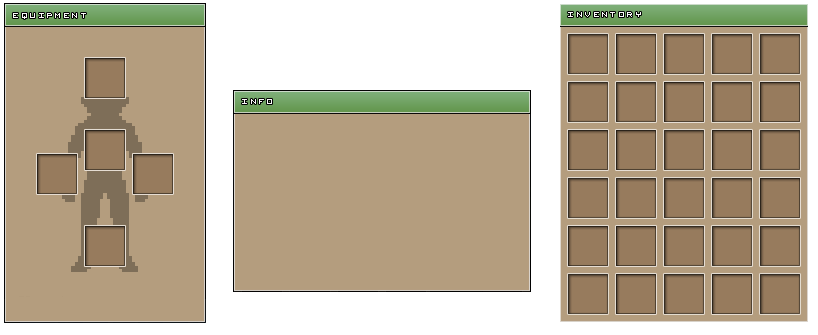
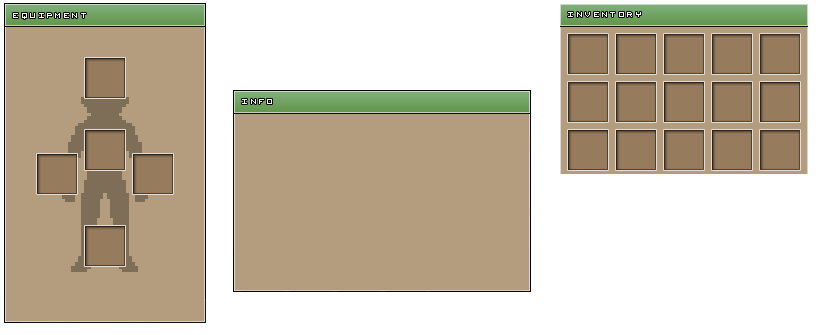
[~] All files : Add button on the inventory

Changed region(s): [[0.6724, 0.5075, 1.0, 0.9851]]

diff --git a/src/initia/initia_inventory.c b/src/initia/initia_inventory.c
@@ -13,4 +13,40 @@ void initia_inventory(global *gb)
         gb->inv.inv[i] = 0;
 }
 
+void initia_button_inventory(global *gb)
+{
+    gb->button[BUTTON_INV1] = *initia_button(&gb->button[BUTTON_INV1],
+        (sfVector2f) {40, 40}, (sfVector2f) {1098, 354});
+    gb->button[BUTTON_INV2] = *initia_button(&gb->button[BUTTON_INV2],
+        (sfVector2f) {40, 40}, (sfVector2f) {1146, 354});
+    gb->button[BUTTON_INV3] = *initia_button(&gb->button[BUTTON_INV3],
+        (sfVector2f) {40, 40}, (sfVector2f) {1194, 354});
+    gb->button[BUTTON_INV4] = *initia_button(&gb->button[BUTTON_INV4],
+        (sfVector2f) {40, 40}, (sfVector2f) {1242, 354});
+    gb->button[BUTTON_INV5] = *initia_button(&gb->button[BUTTON_INV5],
+        (sfVector2f) {40, 40}, (sfVector2f) {1290, 354});
+
+    gb->button[BUTTON_INV6] = *initia_button(&gb->button[BUTTON_INV6],
+        (sfVector2f) {40, 40}, (sfVector2f) {1098, 402});
+    gb->button[BUTTON_INV7] = *initia_button(&gb->button[BUTTON_INV7],
+        (sfVector2f) {40, 40}, (sfVector2f) {1146, 402});
+    gb->button[BUTTON_INV8] = *initia_button(&gb->button[BUTTON_INV8],
+        (sfVector2f) {40, 40}, (sfVector2f) {1194, 402});
+    gb->button[BUTTON_INV9] = *initia_button(&gb->button[BUTTON_INV9],
+        (sfVector2f) {40, 40}, (sfVector2f) {1242, 402});
+    gb->button[BUTTON_INV10] = *initia_button(&gb->button[BUTTON_INV10],
+        (sfVector2f) {40, 40}, (sfVector2f) {1290, 402});
+
+    gb->button[BUTTON_INV11] = *initia_button(&gb->button[BUTTON_INV11],
+        (sfVector2f) {40, 40}, (sfVector2f) {1098, 450});
+    gb->button[BUTTON_INV12] = *initia_button(&gb->button[BUTTON_INV12],
+        (sfVector2f) {40, 40}, (sfVector2f) {1146, 450});
+    gb->button[BUTTON_INV13] = *initia_button(&gb->button[BUTTON_INV13],
+        (sfVector2f) {40, 40}, (sfVector2f) {1194, 450});
+    gb->button[BUTTON_INV14] = *initia_button(&gb->button[BUTTON_INV14],
+        (sfVector2f) {40, 40}, (sfVector2f) {1242, 450});
+    gb->button[BUTTON_INV15] = *initia_button(&gb->button[BUTTON_INV15],
+        (sfVector2f) {40, 40}, (sfVector2f) {1290, 450});
+}
+
 

diff --git a/include/macro.h b/include/macro.h
@@ -29,6 +29,21 @@
 #define BUTTON_BUY10 17
 #define BUTTON_BUY11 18
 #define BUTTON_BUY12 19
+#define BUTTON_INV1 20
+#define BUTTON_INV2 21
+#define BUTTON_INV3 22
+#define BUTTON_INV4 23
+#define BUTTON_INV5 24
+#define BUTTON_INV6 25
+#define BUTTON_INV7 26
+#define BUTTON_INV8 27
+#define BUTTON_INV9 28
+#define BUTTON_INV10 29
+#define BUTTON_INV11 30
+#define BUTTON_INV12 31
+#define BUTTON_INV13 32
+#define BUTTON_INV14 33
+#define BUTTON_INV15 34
 
 ///TEXT///
 #define TXT_NEW_GAME 0

diff --git a/src/rpg.c b/src/rpg.c
@@ -11,16 +11,17 @@
 
 void initia_screen(global *gb)
 {
-    gb->selecscreen.sc = 0;
+    gb->selecscreen.sc = 8;
 }
 
 void call_initia_function(global *gb)
 {
     initia_screen(gb);
     initia_stats(gb);
-    initia_inventory(gb);
     initia_window(gb);
     initia_time(gb);
+    initia_inventory(gb);
+    initia_button_inventory(gb);
     initia_sprite_menu(gb);
     initia_button_menu(gb);
     initia_sound_menu(gb);

diff --git a/src/player/inventory.c b/src/player/inventory.c
@@ -30,6 +30,10 @@ void display_inventory(global *gb)
             pos.x += 47;
         temp++;
     }
+    for (int i = BUTTON_INV1; i <= BUTTON_INV15; i++) {
+        sfRenderWindow_drawRectangleShape(gb->disev.window,
+            gb->button[i].rect, NULL);
+    }
 }
 
 void open_inventory(global *gb)

diff --git a/include/function.h b/include/function.h
@@ -214,6 +214,7 @@ void anim_attack(global *gb, int sprite);
 ///inventory.c///
 void open_inventory(global *gb);
 void display_inventory (global *gb);
+void initia_button_inventory(global *gb);
 
 ///check_2_in.c///
 int collision_between__sprite(sfSprite *sprite1, sfRectangleShape *rect1);

diff --git a/include/struct.h b/include/struct.h
@@ -124,7 +124,7 @@ struct s_global {
     struct s_sprite sprite[26];
     struct s_text text[5];
     struct s_sound sound[2];
-    struct s_button button[20];
+    struct s_button button[36];
     struct s_hitbox hitbox[61];
     struct s_clock clock;
     struct s_movement move[7];
